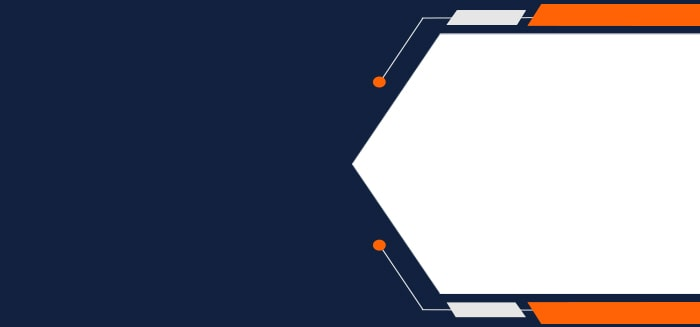
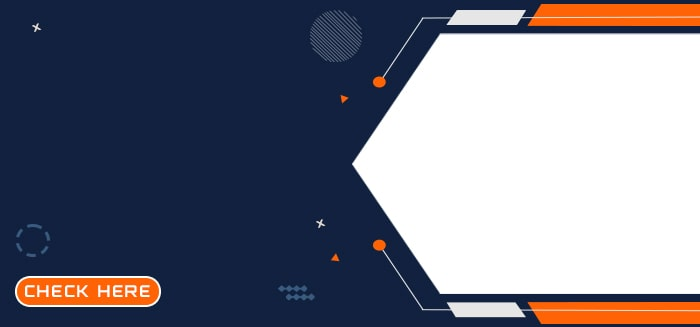
* ccavenue has been added instead of stripe * backgrounds in the home pages for products has been updated

diff --git a/pages/checkout.vue b/pages/checkout.vue
@@ -798,17 +798,18 @@ export default {
             Api.post("/user/orders/create", this.dataForm)
               .then((response) => {
                 this.$nuxt.$loading.finish()
+                if (this.dataForm.payment_method === 'ccavenue') {
 
-                console.log(response);
+                  let order_id = response.data.data.order['order_id']; // Corrected property access
+                  let total = response.data.data.payment.amount;
 
-                if (this.dataForm.payment_method == 'ccavenue') {
+                  // Add 3% to the total
+                  total = (total * 1.03).toFixed(2); // Keep two decimal places for precision
 
-                  let order_id = response.data.data.order[order_id];
-
-                  let total = response.data.data.total['value'];
-
-                  location.href = "https://dev-srv.tlkeys.com/online-order?order_id{{order_id}}"
+                  // Redirect to the online order page with the order ID and total amount
+                  location.href = `https://dev-srv.tlkeys.com/online-order?order_id=${order_id}&amount=${total}`;
                 }
+
 
                 else if(this.dataForm.payment_method == 'paypal'){
                   location.href = response.data.data.paypal_url

diff --git a/pages/complete-order.vue b/pages/complete-order.vue
@@ -38,7 +38,7 @@ import BaseButtonIcon1 from "~/components/common/BaseButtonIcon1.vue";
 import PvSuccess from "~/components/common/PvSuccess.vue";
 
 import PvVerifyMailUnSuccess from "~/components/auth/PvVerifyMailUnSuccess.vue";
-import {mapGetters, mapMutations} from 'vuex';
+import {mapGetters} from 'vuex';
 
 export default {
   components: {
@@ -53,20 +53,6 @@ export default {
       messageError: null
     };
   },
-  // created() {
-  //   this.$Progress.finish();
-  // },
-  // beforeCreate() {
-  //   this.$Progress.start();
-  //
-  // },
-  head() {
-    return {
-      // titleTemplate: JSON.parse(this.$settings.seo.meta_title)[this.$i18n.locale],
-      // title: JSON.parse(this.$settings.seo.meta_title)[this.$i18n.locale]
-    }
-  },
-
   computed: {
     ...mapGetters("authentication", ["isAuthenticated", "StateUser"]),
     getOrderId() {
@@ -83,9 +69,6 @@ export default {
     myOrders() {
       this.$router.push({path: "/account", query: {tab: "orders"}});
     },
-  },
-  mounted() {
-    // this.RESET_CART();
   },
 };
 </script>
